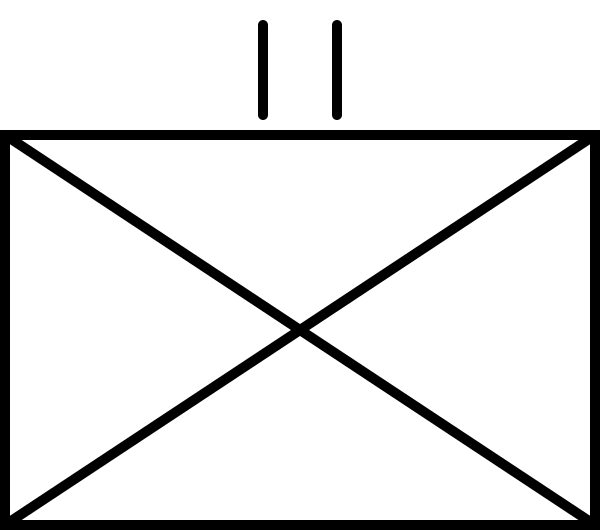
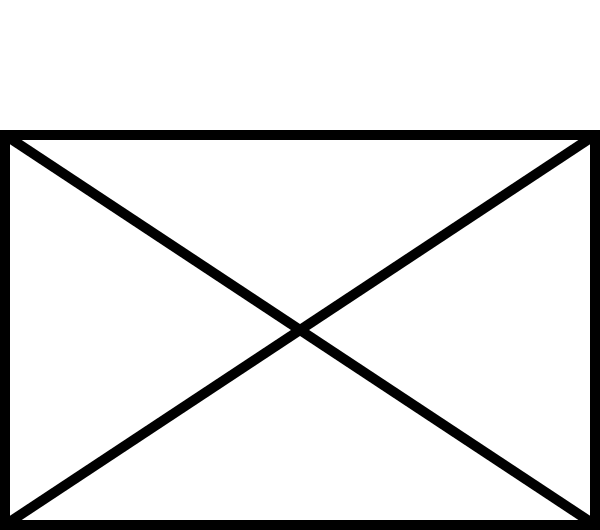
Entity drawing works

Changed region(s): [[0.54, 0.0302, 0.57, 0.2415], [0.42, 0.0302, 0.45, 0.2415]]

diff --git a/client/src/helpers.ts b/client/src/helpers.ts
@@ -1,34 +1,63 @@
 export namespace Helpers {
+	export const gridStartMargin = 80;
 	const sideLen = 40;
+	const magicRatio = 0.875; // Magic ratio found by trial-error
+	const magicYRatio = 1.7; // Magic ratio found by trial-error
 	
 	// The center of the hexagon is (startX, startY), sideLen = 40
 	function drawHexagon(ctx: CanvasRenderingContext2D, startX: number, startY: number) {
 		const theta = Math.PI / 3;
-		
 		let x = startX;
 		let y = startY;
 
 		ctx.beginPath();
+
 	  	for (let i = 0; i < 6; i++) {
 			ctx.lineTo(x + sideLen * Math.sin(theta * i), y + sideLen * Math.cos(theta * i));
 		}
+
 		ctx.closePath();
 		ctx.stroke();
 		ctx.fillStyle = "rgb(19, 133, 16)";
 		ctx.fill();
 	}
 
-	export function drawGrid(ctx: CanvasRenderingContext2D, startX: number, startY: number, row: number, col: number) {
+	function gridToAbsCoord(x: number, y: number) {
+		const delta = sideLen * magicRatio;
+
+		let absX = gridStartMargin + x * delta - sideLen / 2;
+		absX = x % 2 == 0 ? absX : absX + 2 * delta;
+
+		const absY = gridStartMargin + y * delta * magicYRatio + sideLen;
+
+		return [absX, absY]
+	}
+
+	export function drawEntity(ctx: CanvasRenderingContext2D, filename: string, x: number, y: number) {
+		const arr = gridToAbsCoord(x, y);
+		const absX = arr[0];
+		const absY = arr[1];
+
+		// TODO: Find a better way to store images, maybe a sprite hashmap
+		const img = new Image();
+		img.srcset = `../assets/${filename}`;
+		img.onload = () => {
+			ctx.drawImage(img, absX, absY, sideLen, sideLen);
+		};
+	}
+
+	export function drawGrid(ctx: CanvasRenderingContext2D, row: number, col: number) {
 		let x: number;
-		let y = startY;
-		const delta = sideLen * 0.875; // Magic ratio found by trial-error
+		let y = gridStartMargin;
+		const delta = sideLen * magicRatio; 
+
 		for (let i = 0; i < row; i++) {
-			x = i % 2 == 0 ? startX : startX + delta;
+			x = i % 2 == 0 ? gridStartMargin : gridStartMargin + delta;
 			for (let j = 0; j < col; j++) {
 				drawHexagon(ctx, x, y);
 				x += 2 * delta;
 			}
-			y += 1.7 * delta; // Magic ratio found by trial-error
+			y += magicYRatio * delta; // Magic ratio found by trial-error
 		}
 	}
 }

diff --git a/client/src/app.ts b/client/src/app.ts
@@ -5,4 +5,6 @@ canvas.width = window.outerWidth;
 canvas.height = window.outerHeight;
 const ctx = canvas.getContext("2d") as CanvasRenderingContext2D;
 
-Helpers.drawGrid(ctx, 80, 80, 3, 3);
+Helpers.drawGrid(ctx, 3, 3);
+Helpers.drawEntity(ctx, "infantry.png", 2, 1);
+Helpers.drawEntity(ctx, "tower.png", 1, 0);

diff --git a/client/style.css b/client/style.css
@@ -4,7 +4,7 @@
 }
 
 body {
-	background-color: rgb(50, 50, 550);
+	background-color: rgb(50, 50, 50);
 	color: white;
 	height: 100svh;
 	position: relative;
